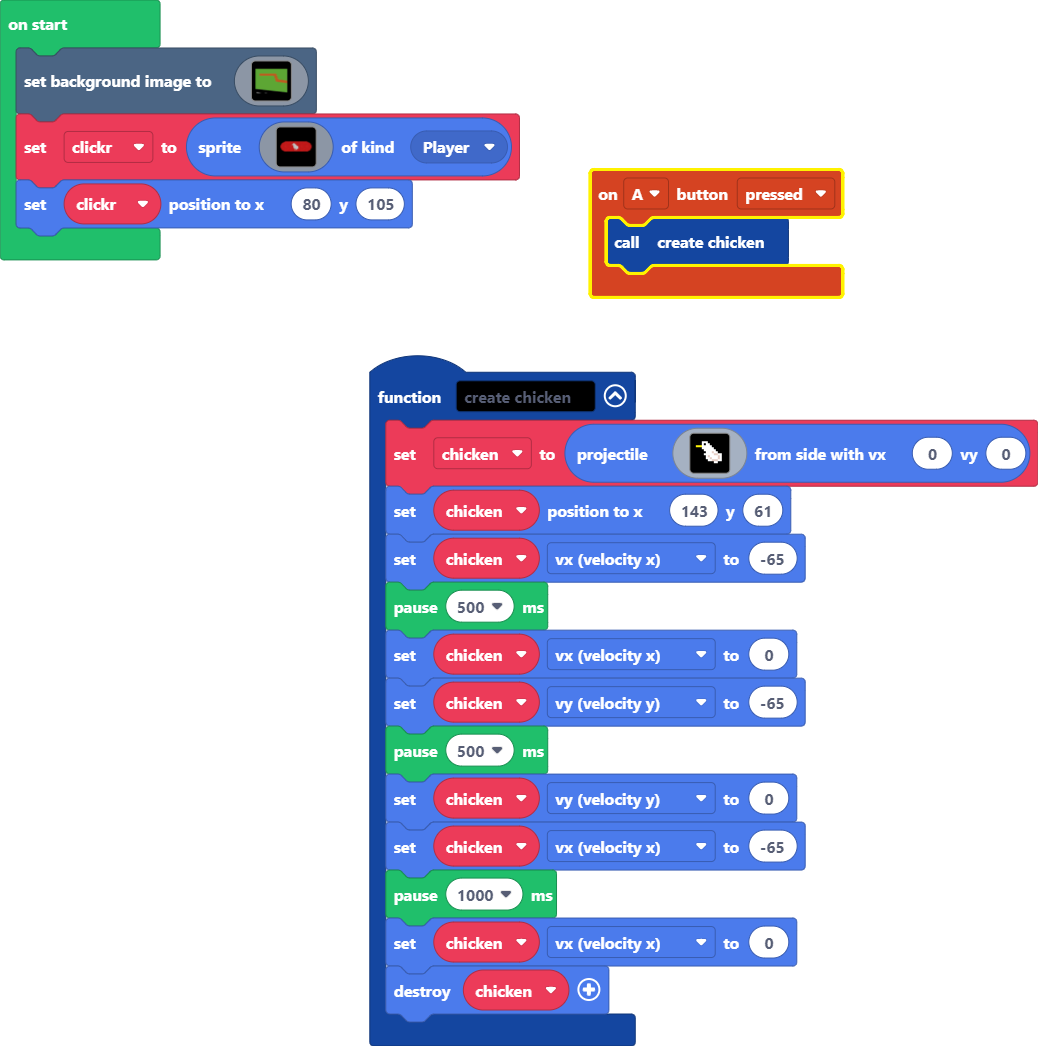
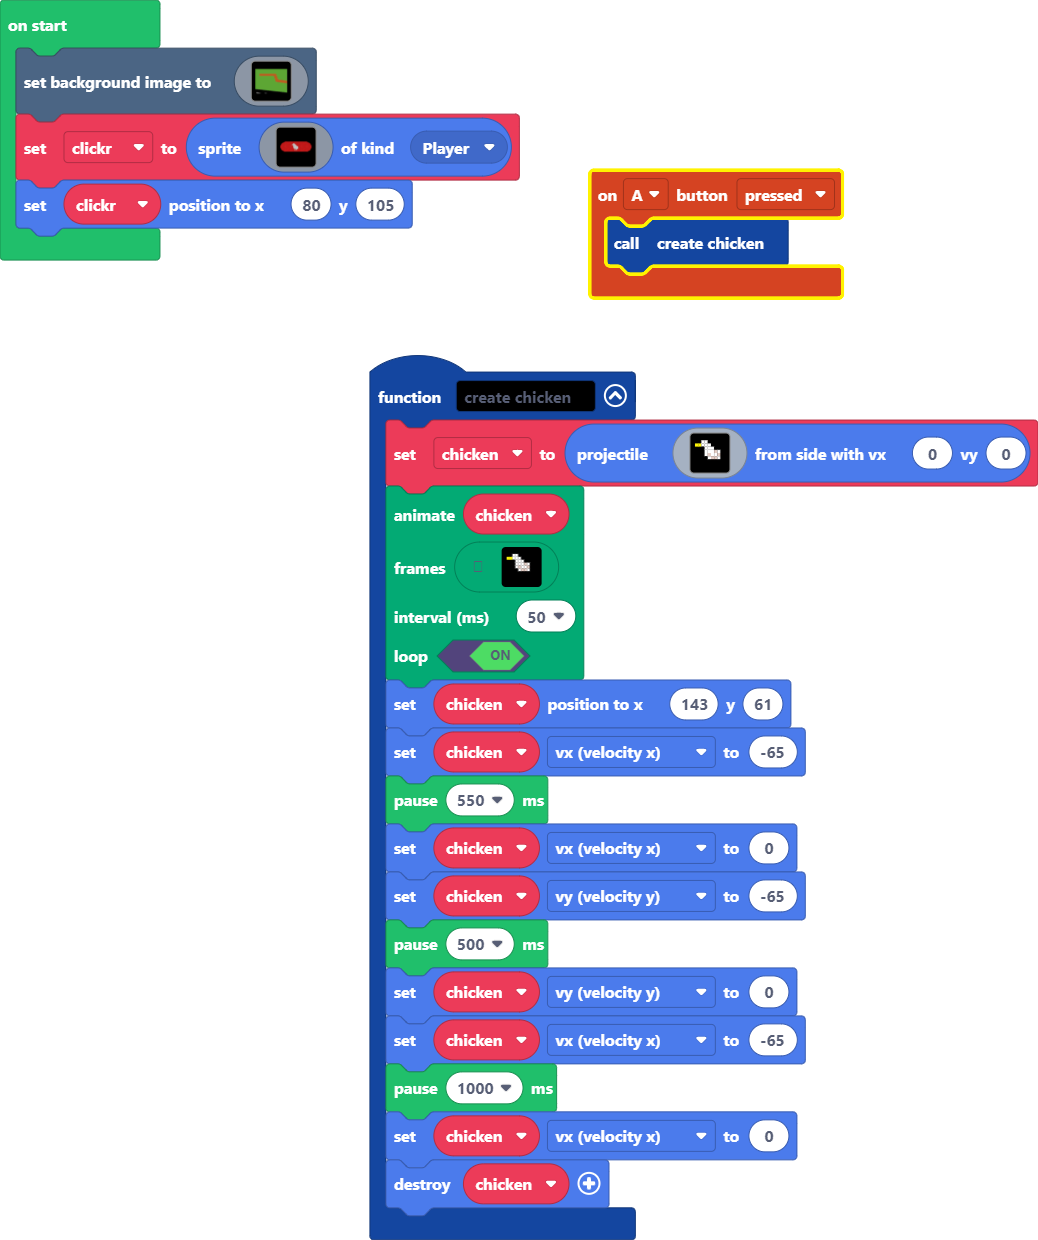
Made the chicken smaller and gave it a walking animation.

diff --git a/main.ts b/main.ts
@@ -1,25 +1,73 @@
 function create_chicken () {
     chicken = sprites.createProjectileFromSide(img`
-        . . . . . . . . . . . . . . . . 
-        . . . . f f f . . . . . . . . . 
-        . . . f 1 1 1 f . . . . . . . . 
-        . . . f 1 f 1 1 f . . . . . . . 
-        . 5 5 5 1 1 1 1 1 f . . . . . . 
-        . . . f 1 1 1 1 1 1 f . . . . . 
-        . . . . f 1 1 1 1 1 1 f . . . . 
-        . . . . f f 1 1 1 d 1 1 f f . . 
-        . . . . f 1 1 1 1 1 d d 1 1 f . 
-        . . . . f f 1 d 1 1 1 1 d 1 f . 
-        . . . . . f 1 1 d 1 1 1 d 1 f . 
-        . . . . . f f 1 1 d d d 1 1 f . 
-        . . . . . . f f f f 1 1 f f f . 
-        . . . . . . . . f . f f f . . . 
-        . . . . . . . . f . . f . . . . 
-        . . . . . . . f f . f f . . . . 
+        . . f f . . . . . 
+        . f 1 1 f . . . . 
+        5 5 1 1 1 f . . . 
+        . . f 1 1 1 f f . 
+        . . f 1 1 1 d 1 f 
+        . . f 1 d 1 1 d f 
+        . . . f 1 d d 1 f 
+        . . . f f f f f f 
+        . . . . f . f . . 
+        . . . f f f f . . 
         `, 0, 0)
+    animation.runImageAnimation(
+    chicken,
+    [img`
+        . . f f . . . . . . 
+        . f 1 1 f . . . . . 
+        5 5 1 1 1 f . . . . 
+        . . f 1 1 1 f f . . 
+        . . f 1 1 1 d 1 f . 
+        . . f 1 d 1 1 d f . 
+        . . . f 1 d d 1 f . 
+        . . . f f f f f f . 
+        . . . . f . f . . . 
+        . . . f f f f . . . 
+        . . . . . . . . . . 
+        `,img`
+        . . f f . . . . . . 
+        . f 1 1 f . . . . . 
+        5 5 1 1 1 f . . . . 
+        . . f 1 1 1 f f . . 
+        . . f 1 1 1 d 1 f . 
+        . . f 1 d 1 1 d f . 
+        . . . f 1 d d 1 f . 
+        . . . f f f f f f . 
+        . . . . f . . f . . 
+        . . f f . . f f . . 
+        . . . . . . . . . . 
+        `,img`
+        . . f f . . . . . . 
+        . f 1 1 f . . . . . 
+        5 5 1 1 1 f . . . . 
+        . . f 1 1 1 f f . . 
+        . . f 1 1 1 d 1 f . 
+        . . f 1 d 1 1 d f . 
+        . . . f 1 d d 1 f . 
+        . . . f f f f f f . 
+        . . . . f . . f . . 
+        . . . f f . f f . . 
+        . . . . . . . . . . 
+        `,img`
+        . . f f . . . . . . 
+        . f 1 1 f . . . . . 
+        5 5 1 1 1 f . . . . 
+        . . f 1 1 1 f f . . 
+        . . f 1 1 1 d 1 f . 
+        . . f 1 d 1 1 d f . 
+        . . . f 1 d d 1 f . 
+        . . . f f f f f f . 
+        . . . . . f f . . . 
+        . . . . f f f . . . 
+        . . . . . . . . . . 
+        `],
+    50,
+    true
+    )
     chicken.setPosition(143, 61)
     chicken.vx = -65
-    pause(500)
+    pause(550)
     chicken.vx = 0
     chicken.vy = -65
     pause(500)
